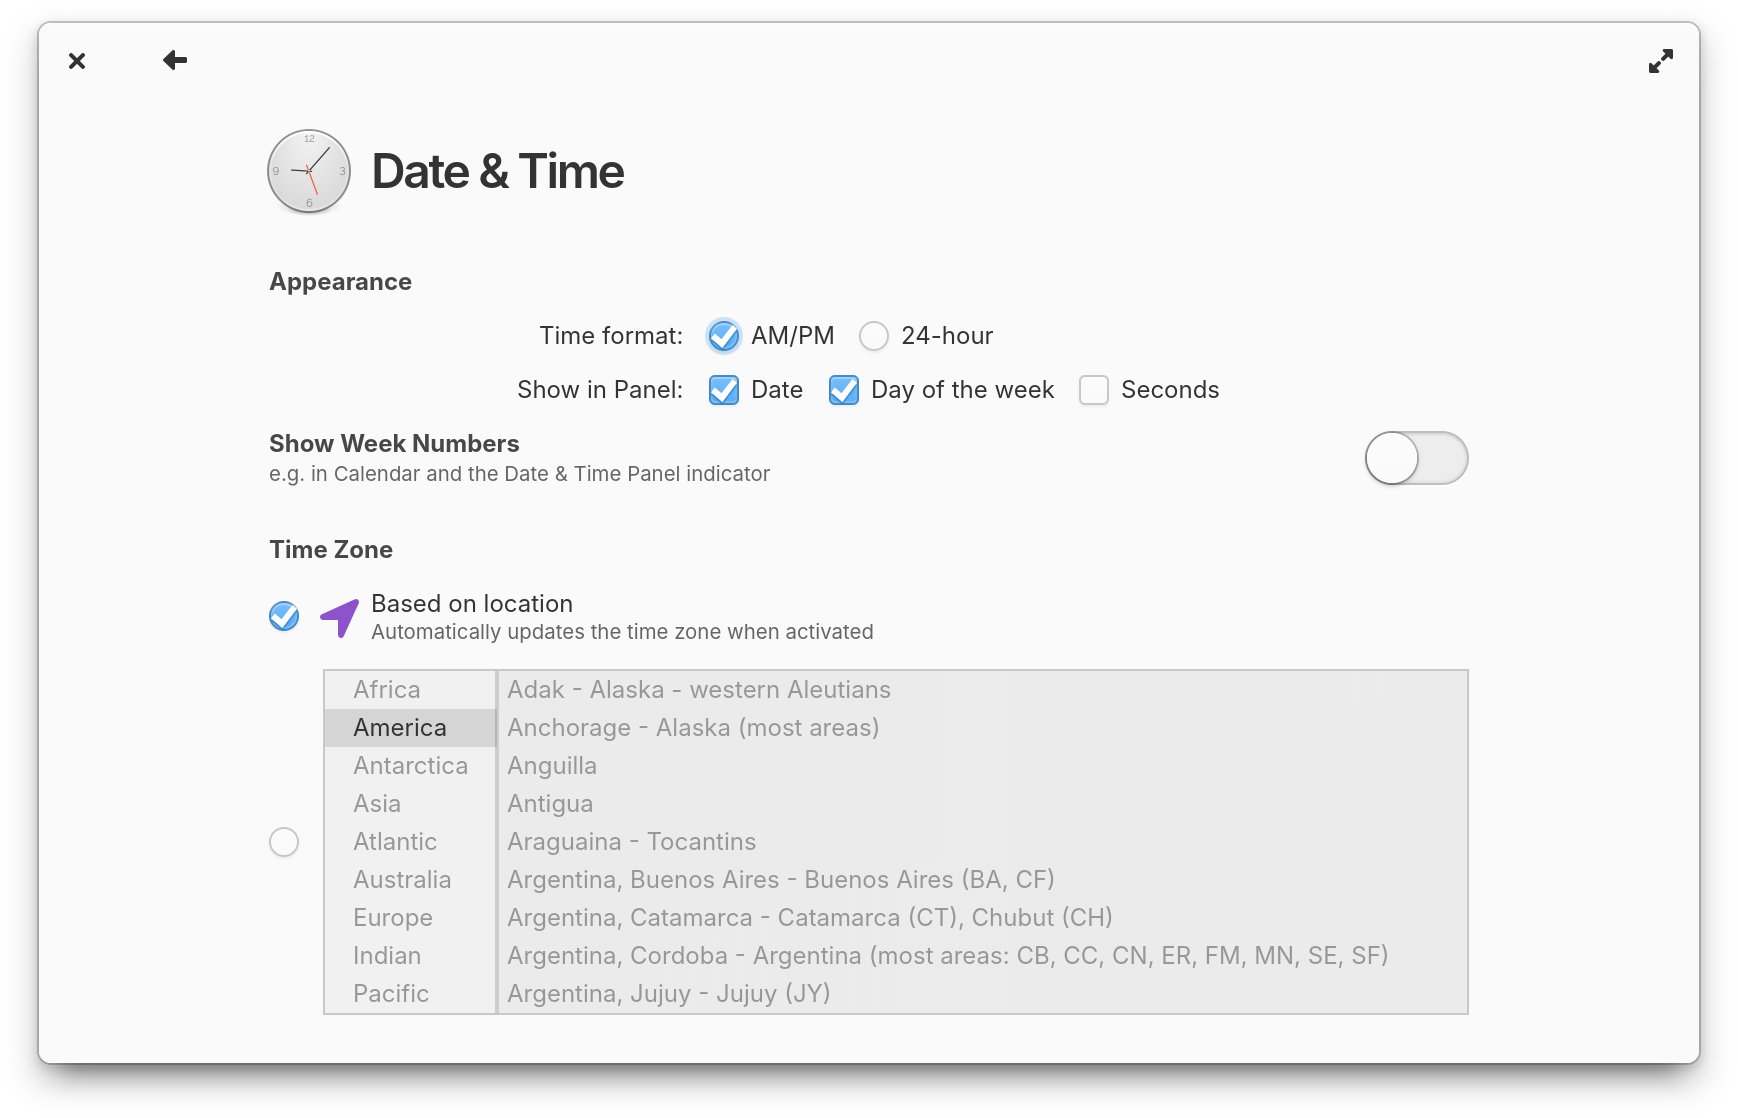
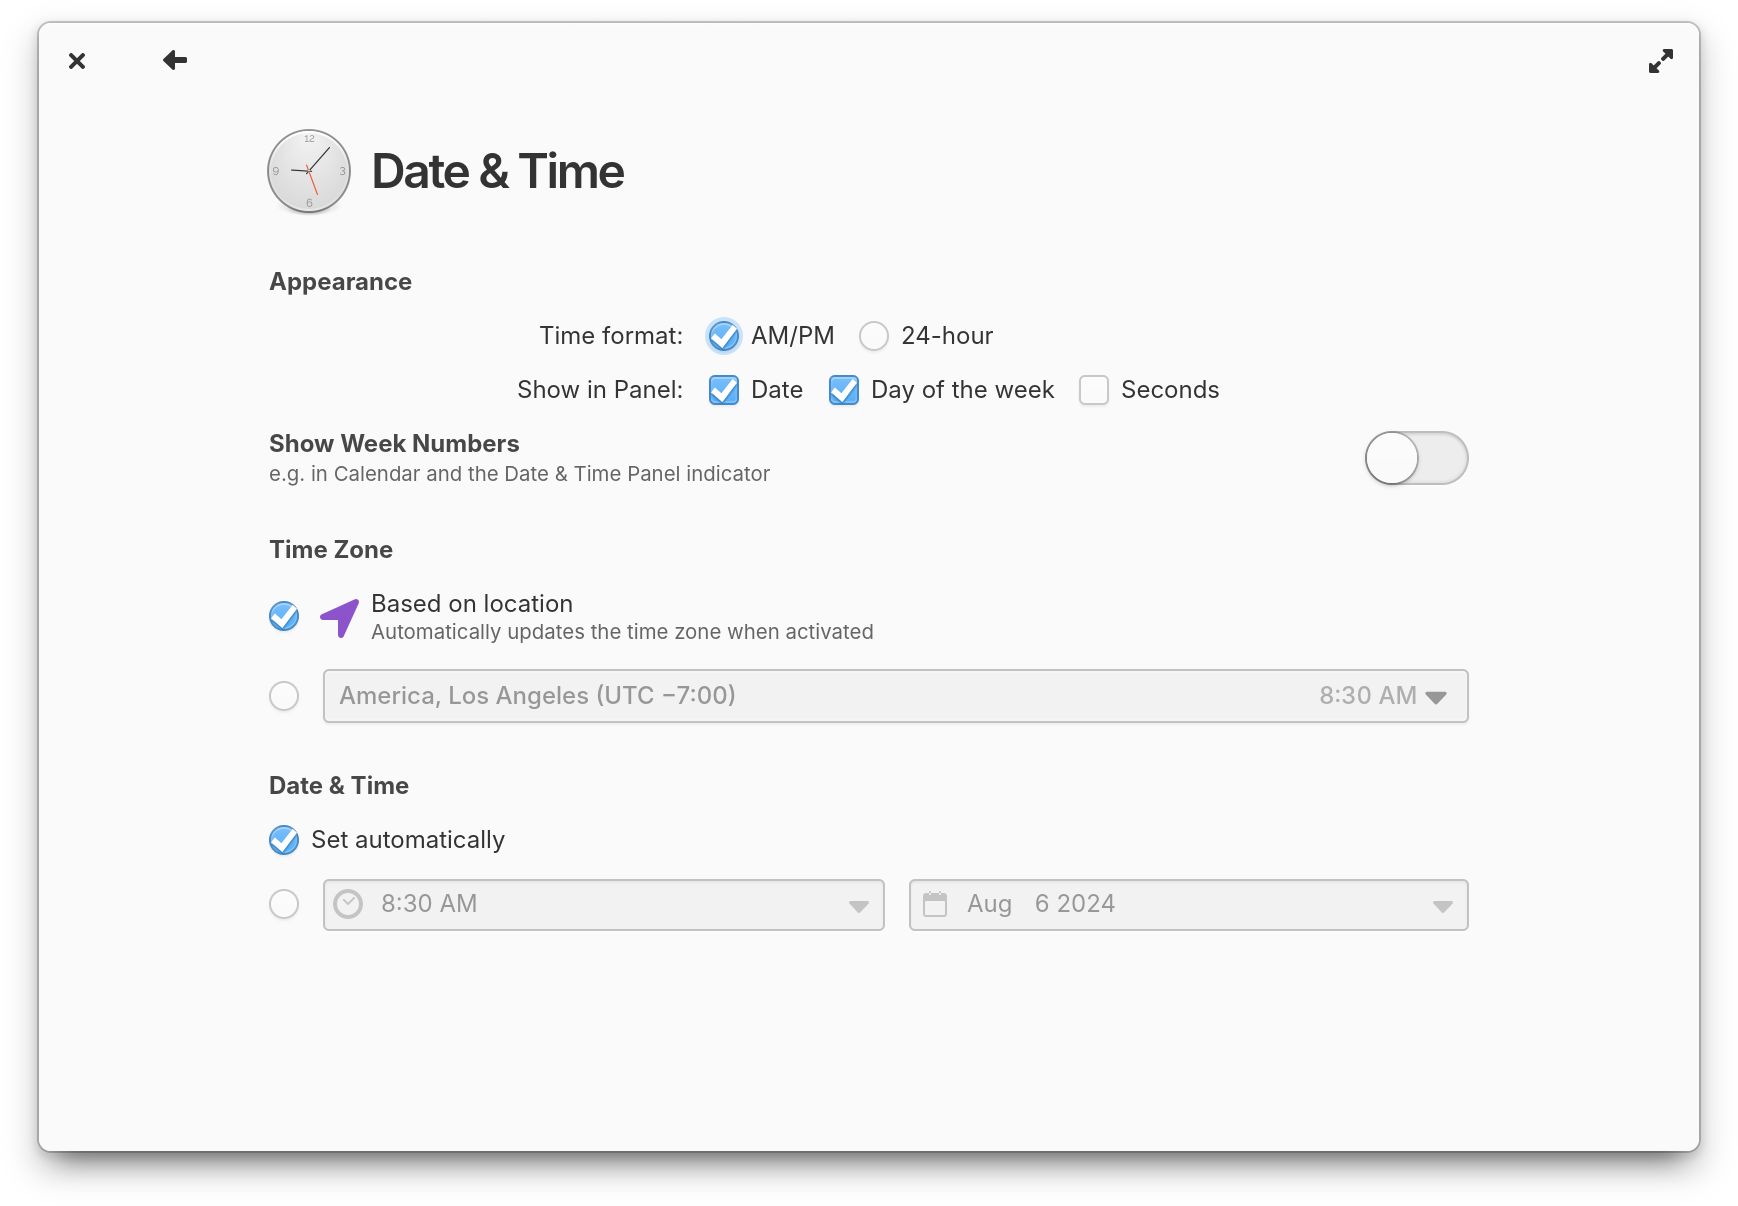
Timezone dropdown (#106)

diff --git a/README.md b/README.md
@@ -1,5 +1,5 @@
 # Date & Time Settings
-[![Translation status](https://l10n.elementary.io/widgets/switchboard/-/datetime/svg-badge.svg)](https://l10n.elementary.io/engage/switchboard/?utm_source=widget)
+[![Translation status](https://l10n.elementary.io/widgets/switchboard/-/switchboard-plug-datetime/svg-badge.svg)](https://l10n.elementary.io/engage/switchboard/?utm_source=widget)
 
 ![screenshot](data/screenshot.png?raw=true)
 
@@ -7,8 +7,9 @@
 
 You'll need the following dependencies:
 
-* libgranite-7-dev
 * libadwaita-1-dev >= 1.4.0
+* libgranite-7-dev
+* libical-dev
 * libswitchboard-3-dev
 * meson
 * valac
